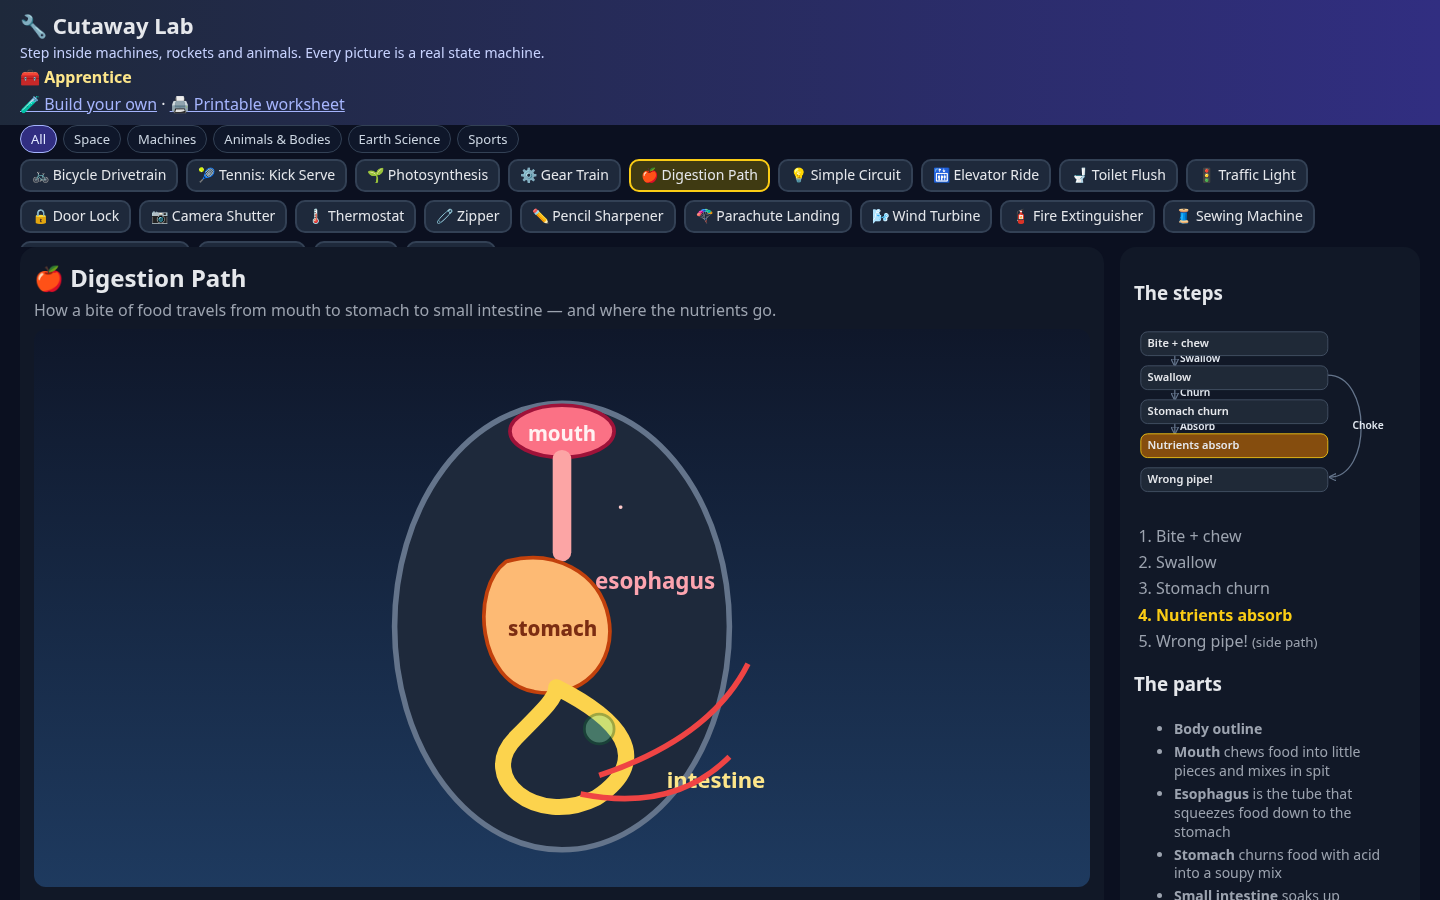
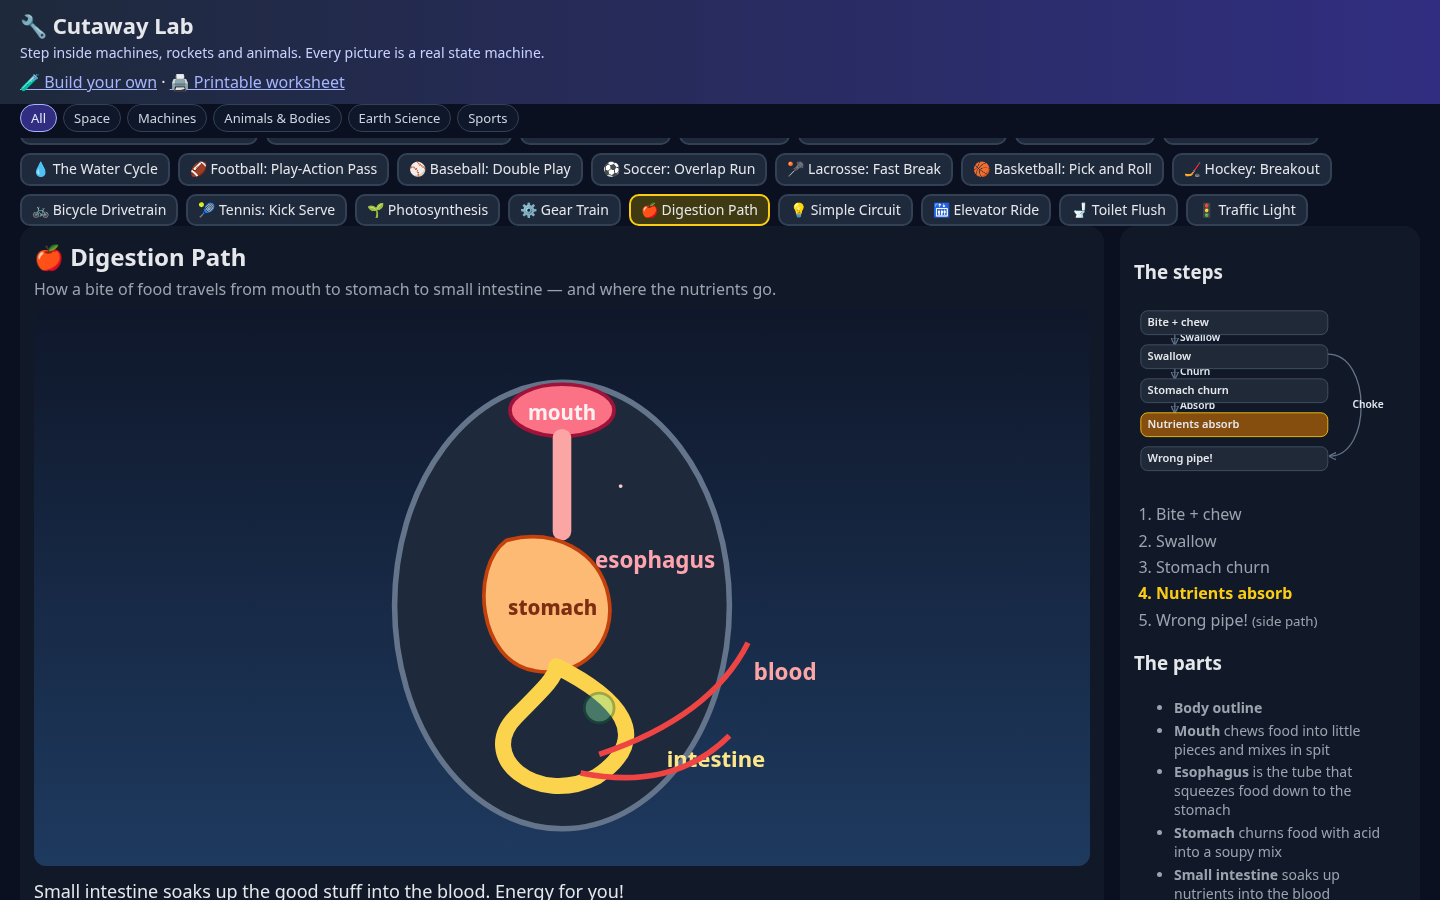
v1.0: digestion blood caption on nutrients-absorb

diff --git a/machines/digest.js b/machines/digest.js
@@ -19,12 +19,14 @@ export default {
       svg: '<circle cx="200" cy="55" r="8" fill="#86efac" stroke="#166534" stroke-width="1.5"/>', explode: [0, -50] },
     { id: 'blood', label: 'Bloodstream', job: 'carries nutrients out to the body',
       svg: '<g stroke="#ef4444" stroke-width="3" fill="none"><path d="M220 240 Q280 220 300 180"/><path d="M210 250 Q260 260 290 230"/></g>', pose: { opacity: 0 } },
+    { id: 'lblBlood', label: 'Blood label',
+      svg: '<text x="320" y="200" text-anchor="middle" fill="#fca5a5" font-size="12" font-weight="700">blood</text>', pose: { opacity: 0 } },
   ],
   states: {
     bite: { label: 'Bite + chew', caption: 'Teeth smash the apple. Spit starts breaking starch into sugar.', on: { SWALLOW: 'swallow' }, parts: { food: { scale: 0.85 }, mouth: { scale: 1.08 } } },
     swallow: { label: 'Swallow', caption: 'Tongue pushes the bite back. The esophagus squeezes it downward — a wave called peristalsis.', on: { CHURN: 'churn', CHOKE: 'choke' }, parts: { food: { y: 50 }, esophagus: { scale: 1.05 } } },
     churn: { label: 'Stomach churn', caption: 'Acid and muscles turn the bite into soup. Ready for the intestine.', on: { ABSORB: 'absorb' }, parts: { food: { y: 100, x: -10, scale: 0.7 }, stomach: { scale: 1.1 } } },
-    absorb: { label: 'Nutrients absorb', caption: 'Small intestine soaks up the good stuff into the blood. Energy for you!', on: {}, parts: { food: { y: 160, x: 20, opacity: 0.4 }, intestine: { scale: 1.08 }, blood: { opacity: 1 } } },
+    absorb: { label: 'Nutrients absorb', caption: 'Small intestine soaks up the good stuff into the blood. Energy for you!', on: {}, parts: { lblBlood: { opacity: 1 },  food: { y: 160, x: 20, opacity: 0.4 }, intestine: { scale: 1.08 }, blood: { opacity: 1 } } },
     choke: { label: 'Wrong pipe!', caption: 'Food went toward the windpipe. Cough! (That is why the epiglottis matters.)', on: {}, parts: { food: { x: -25, y: 20, opacity: 0.6 }, esophagus: { opacity: 0.5 } } },
   },
 };
